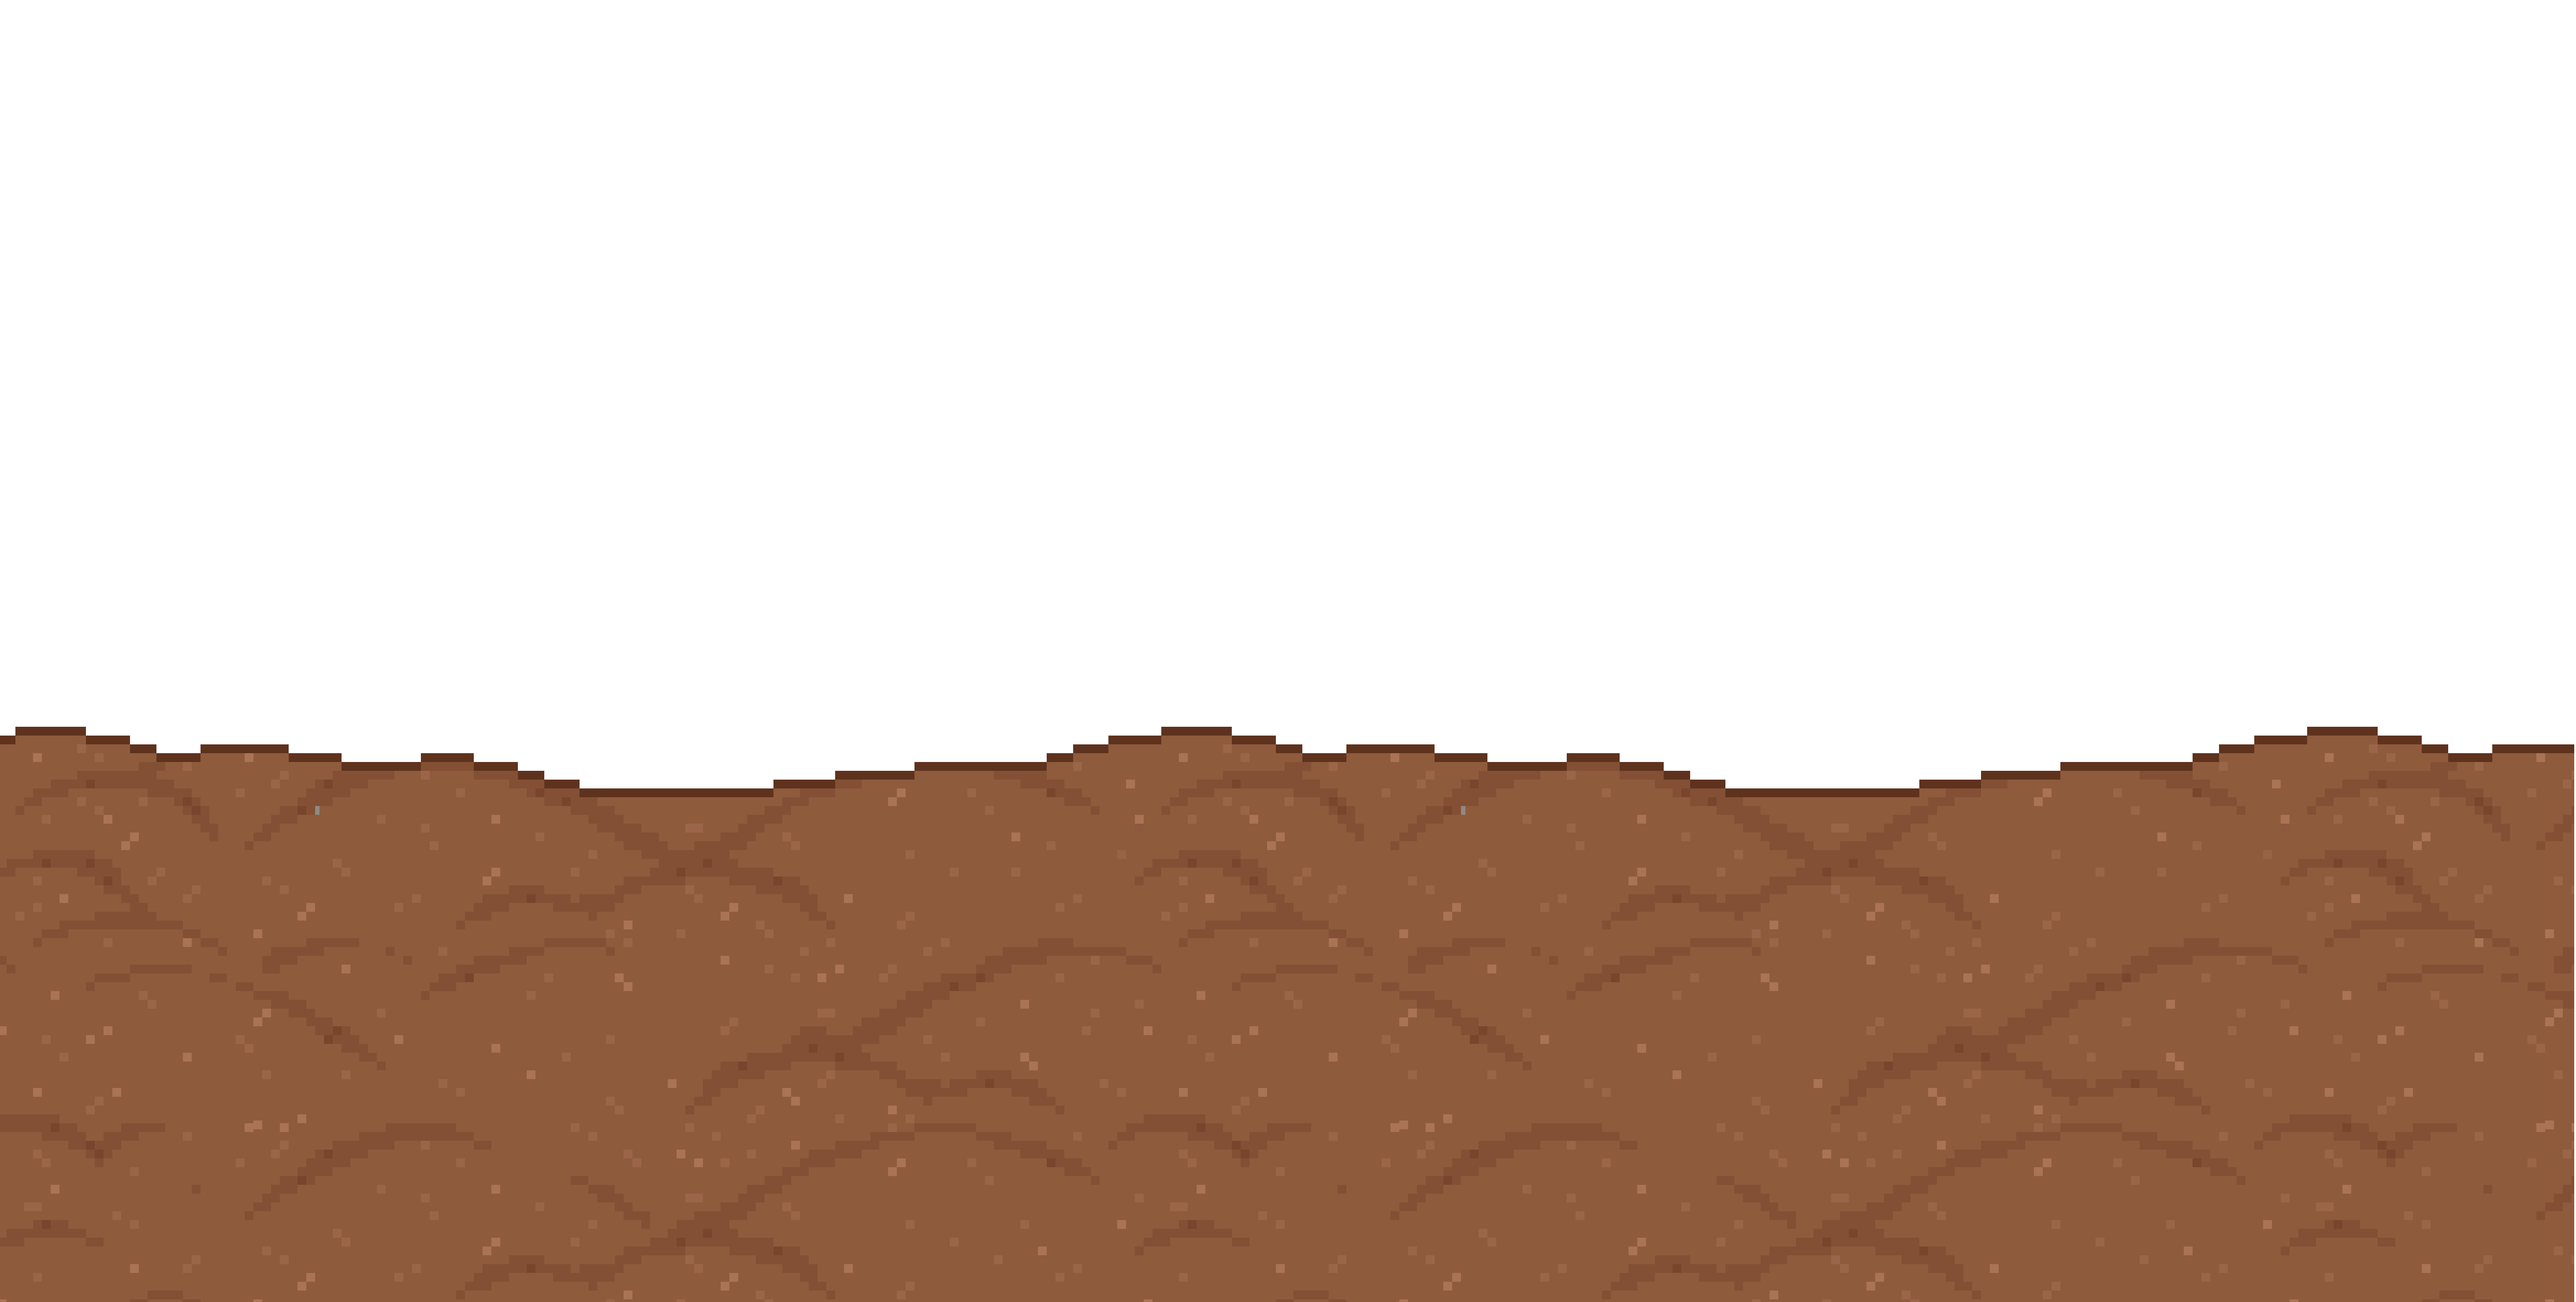
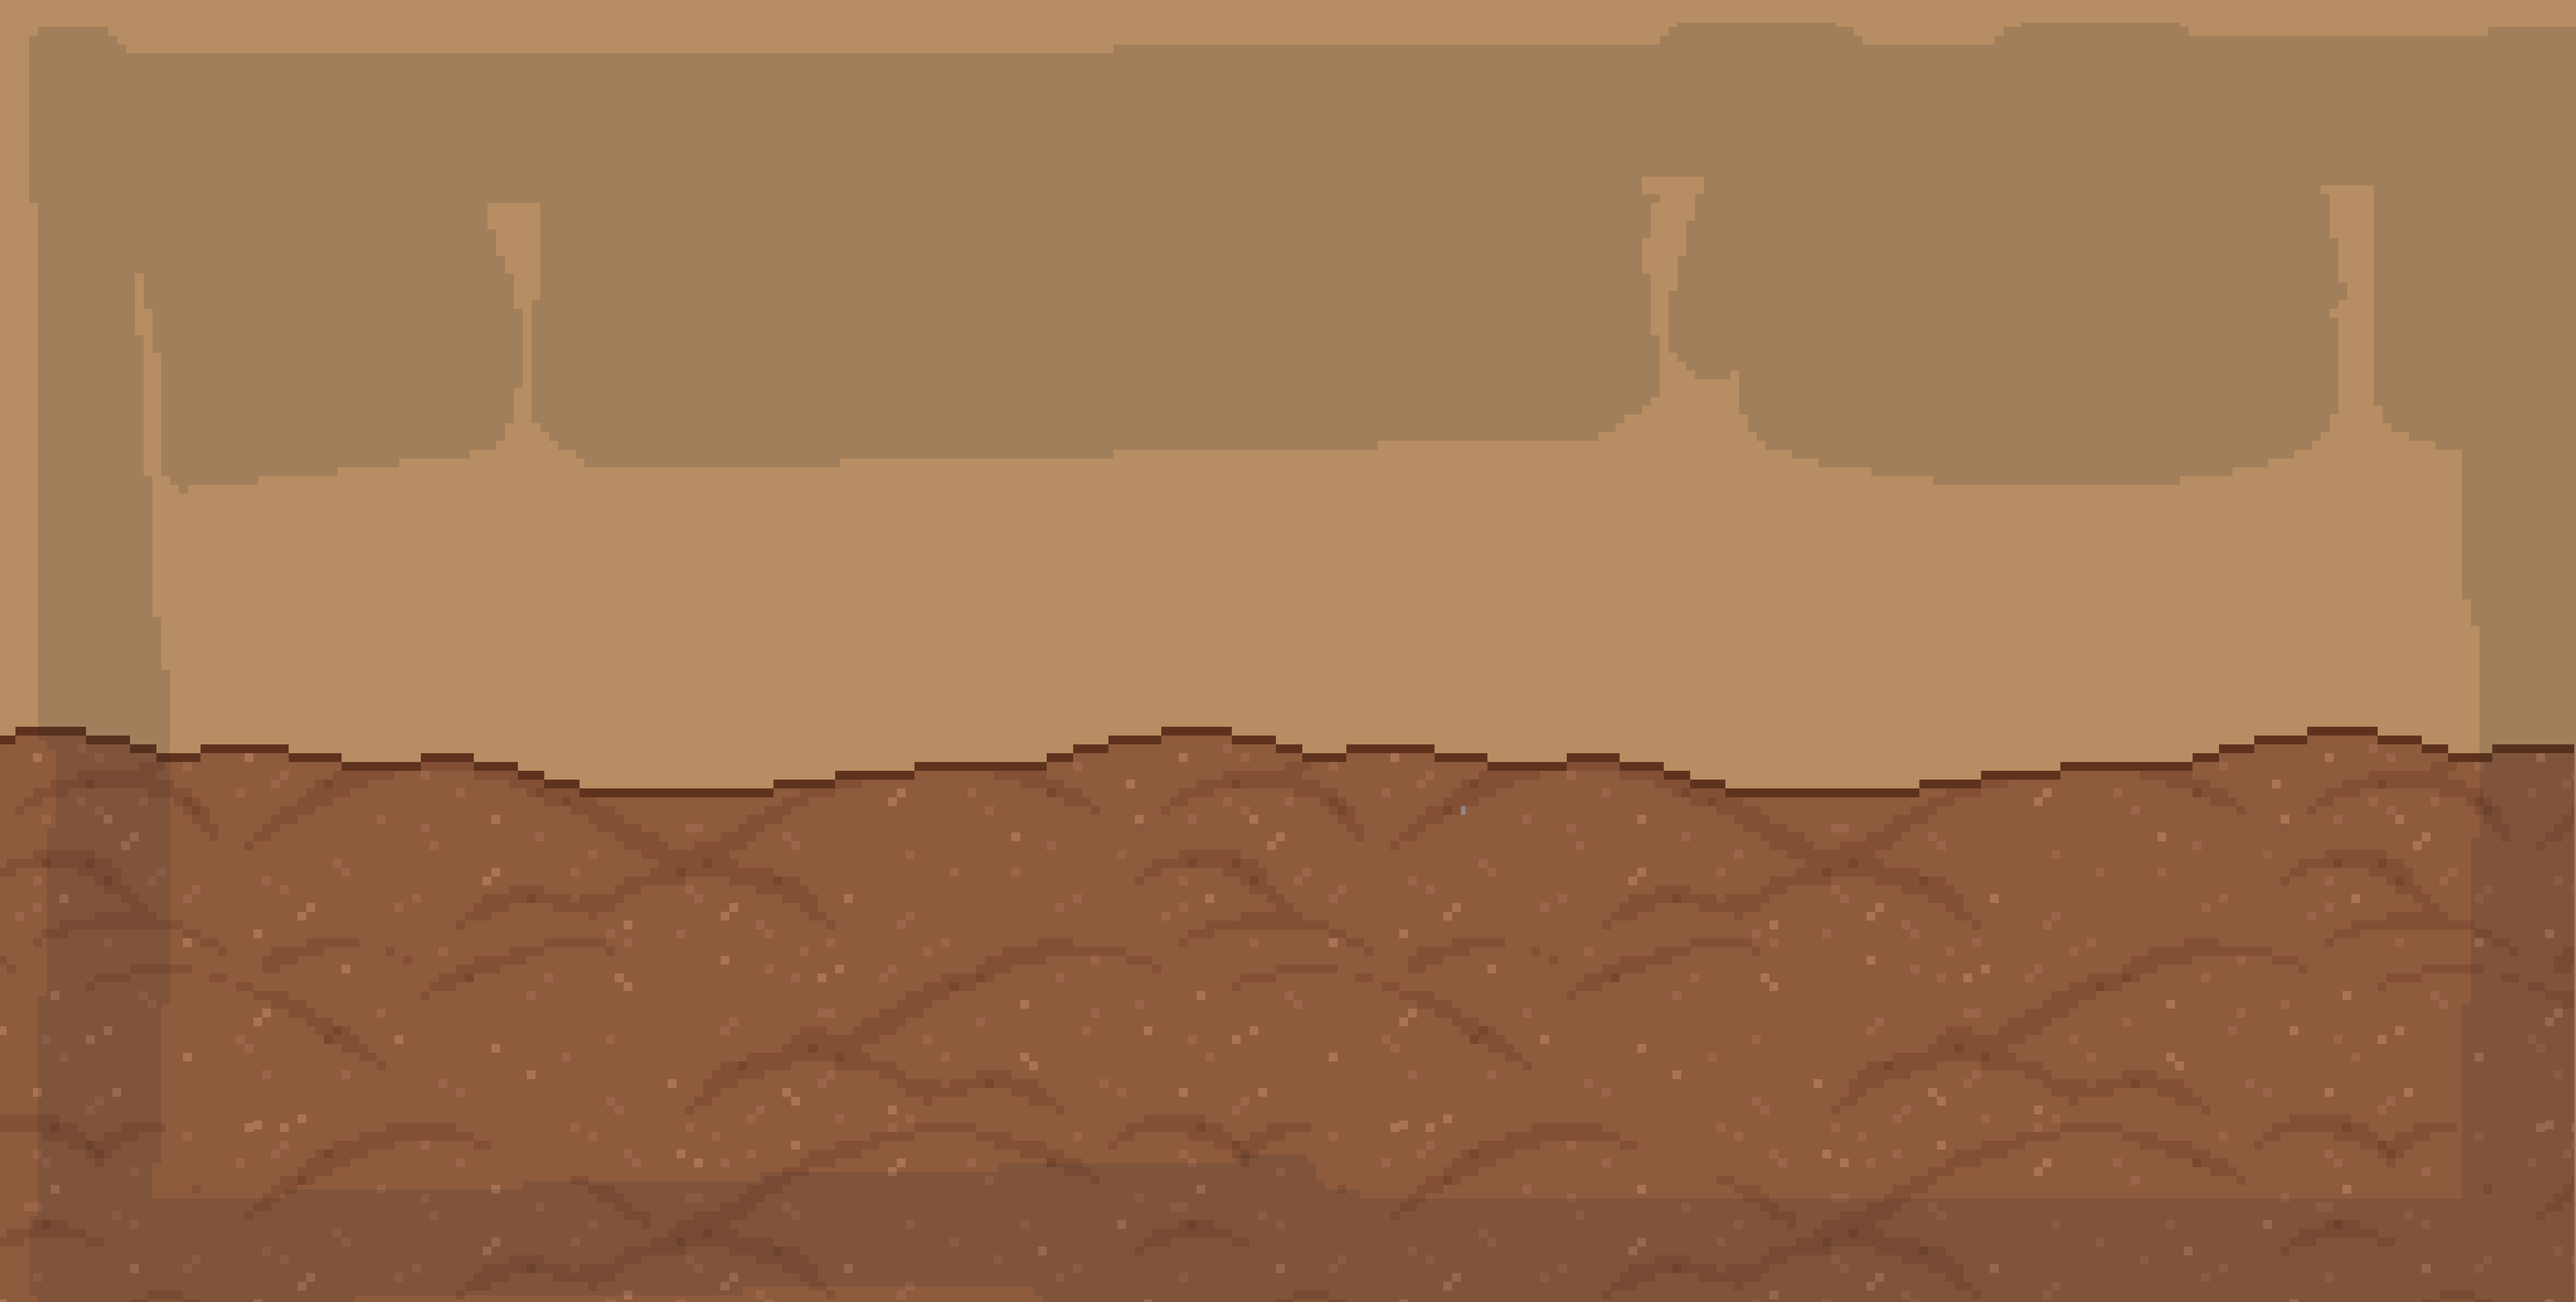
New images and some image adjustments
-still needs to edit modals
-still needs to add button images on screen
-also need to figure out how to place the flowers on the screen

diff --git a/garden/src/views/garden.vue b/garden/src/views/garden.vue
@@ -42,13 +42,14 @@ function closeShop() {
 
 <style scoped>
 .page {
-  position: relative;
+  position: left;
+  background-color: aliceblue;
   min-height: 100vh;
   width: 100vw;
   display: flex;
   align-items: center;
   justify-content: center;
-  padding: 2rem;
+  padding: rem;
   padding-bottom: 8rem;
 }
 
@@ -93,7 +94,7 @@ function closeShop() {
 .bg-frame {
   position: fixed;
   inset: 0;
-  margin-top: 1%;
+  margin-top: 0.9%;
   margin-left: 1.5%;
   width: 97%;
   height: 97%;
@@ -106,11 +107,11 @@ function closeShop() {
 
 .bg-shop {
   position: fixed;
-  top: 3.5rem;
-  left: 3rem;
+  top: 3rem;
+  left: 3.5rem;
   transform: none;
   transform-origin: top left;
-  width: 260px;
+  width: 275px;
   max-width: 30vw;
   z-index: 10;
   pointer-events: auto;
@@ -151,13 +152,14 @@ function closeShop() {
 
 .shop-panel {
   position: relative;
-  background: rgba(255, 255, 255, 0.98);
+  background: transparent;
   border-radius: 0.75rem;
   box-shadow: 0 30px 80px rgba(0, 0, 0, 0.25);
   width: min(960px, 95%);
   max-height: 80vh;
   overflow: auto;
   padding: 1rem;
+  background-image: url("ShopButton.png");
 }
 
 .shop-close {
